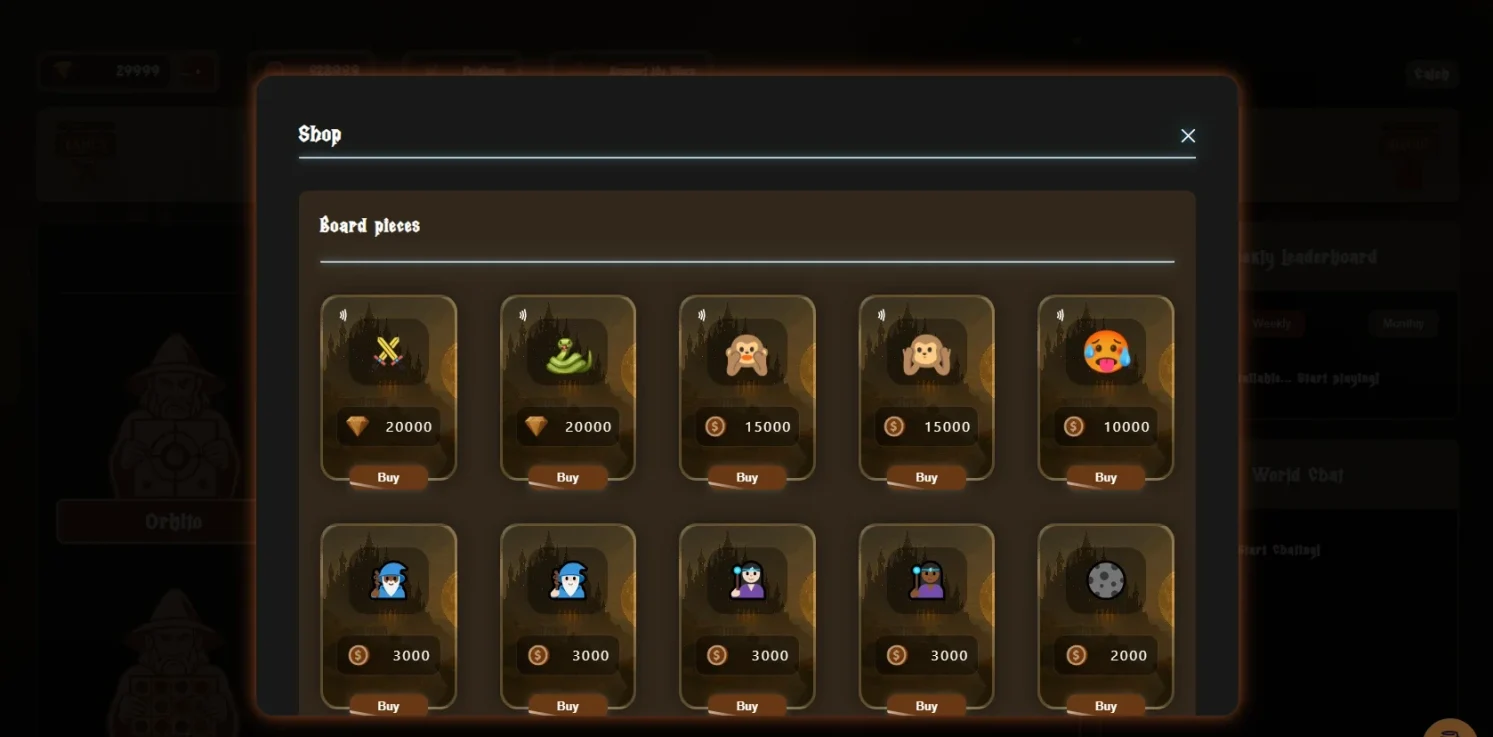
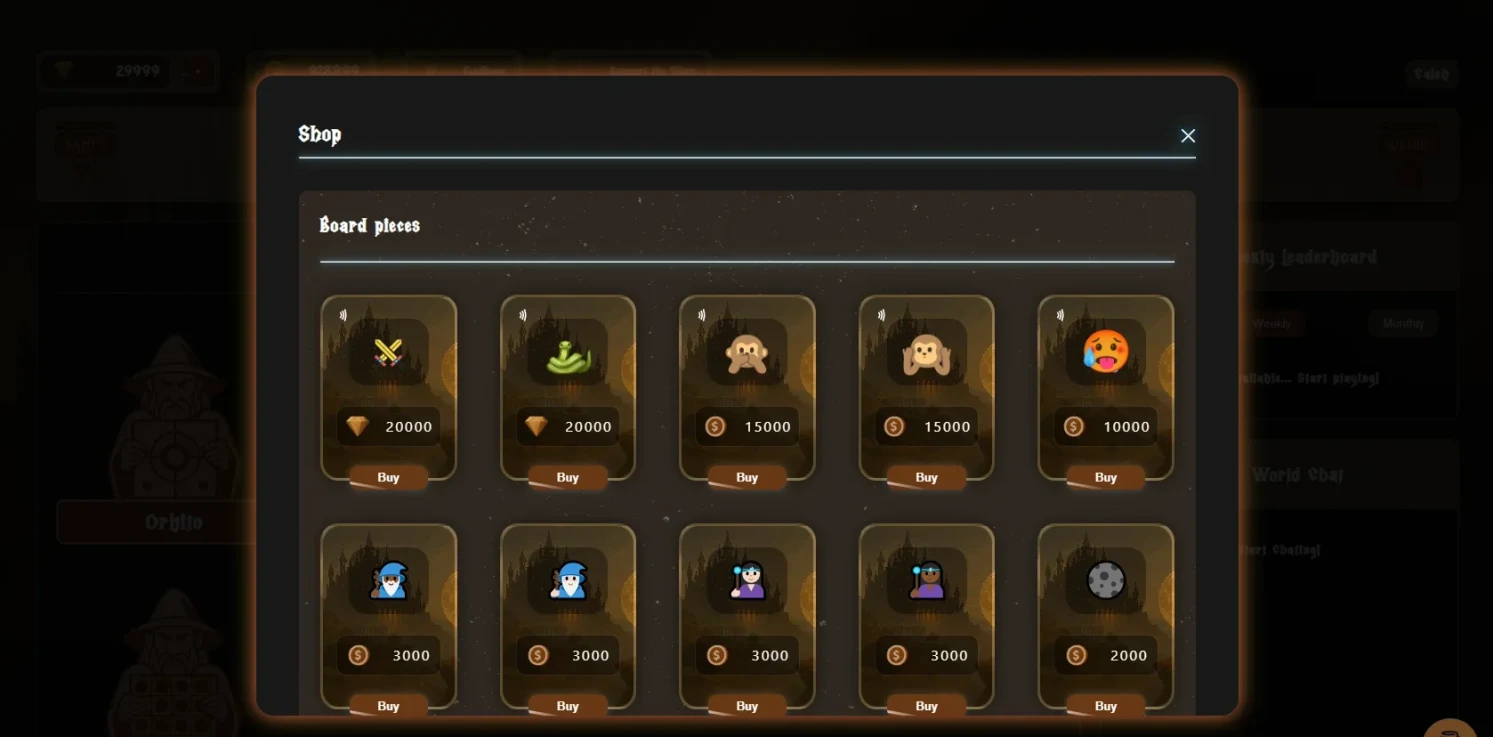
update vintage and fantasy modal styles

diff --git a/src/styles/sass/admin/overlayModal.scss b/src/styles/sass/admin/overlayModal.scss
@@ -44,9 +44,23 @@
     }
 
     .#{$identifier}-modal-category {
+      z-index: 1;
       padding: 24px 24px 46px 24px;
       background-color: var(--modal-category-bg-color);
       border-radius: 10px;
+      background-image: url('/assets/images/stardust.png');
+      background-repeat: repeat;
+      background-size: auto;
+      animation: shimmer 20s linear infinite;
+
+      @keyframes shimmer {
+        0% {
+          background-position: 0 0;
+        }
+        100% {
+          background-position: 200% 200%;
+        }
+      }
     }
 
     .#{$identifier}-modal-body {
